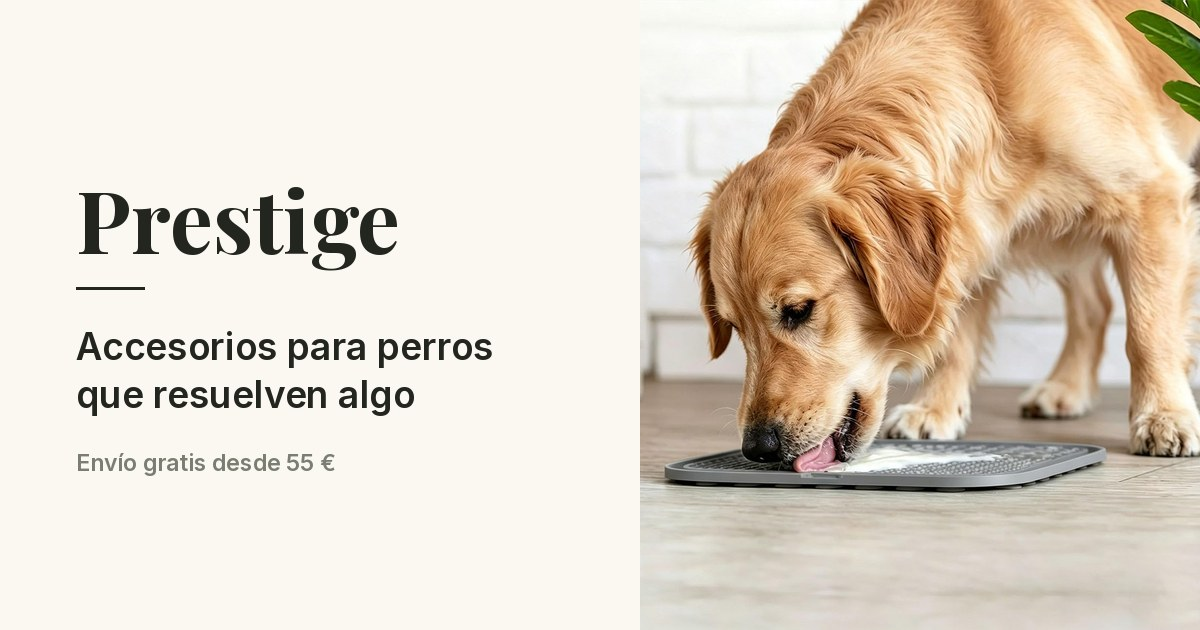
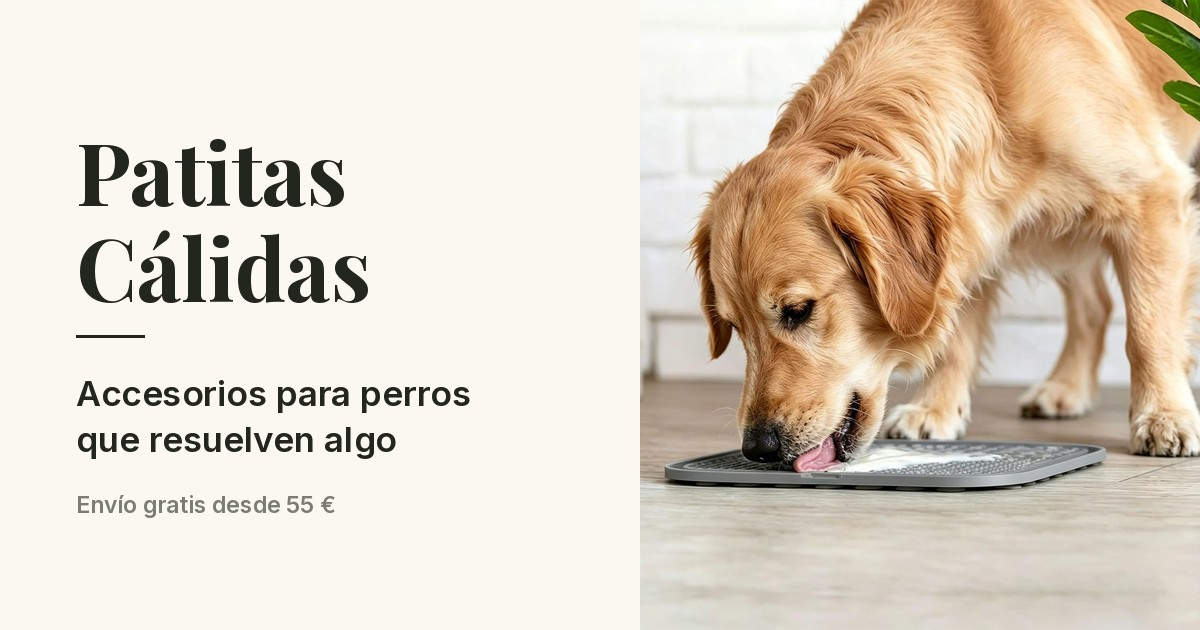
La marca pasa a ser Patitas Calidas
- Los 39 productos llevan ya la marca "Patitas Calidas". Estaba descuadrada:
  20 decian Prestige y 19 decian CJ, el nombre del proveedor, visible para
  el cliente. productVendors devuelve ahora un solo valor.
- Imagen de compartir rehecha con el nombre nuevo, en dos lineas.
- Las paginas no nombraban a Prestige, no habia nada que cambiar ahi.

Segunda revision del dominio: el certificado sigue sin emitirse, mismo
comodin caducado. La verificacion por correo era la del titular del dominio
que exige ICANN, no tiene relacion con el certificado HTTPS.

Quedan dos ajustes que no tienen mutacion de API: el nombre de la tienda y
el titulo de la portada.

Claude-Session: https://claude.ai/code/session_01CFqyQZwoYDpx6wpYr3FX3j

diff --git a/research/dominio-2026-09-07.md b/research/dominio-2026-09-07.md
@@ -97,3 +97,51 @@ de las paginas** en el dominio nuevo, porque no se debe saltar la validacion
 de TLS ni siquiera para comprobar. El verificador `scripts/verificar-tienda.py`
 apunta todavia al dominio `.myshopify.com`; hay que cambiarle la direccion
 cuando el certificado este listo.
+
+---
+
+## Segunda revision (misma tarde, tras verificar el correo)
+
+**Sin cambios.** Seis comprobaciones mas, en `patitascalidas.com` y en
+`www.patitascalidas.com`: sigue el mismo comodin `*.myshopify.com` caducado
+el 15 de noviembre de 2025. Las paginas siguen sin cargar.
+
+La verificacion por correo que se hizo es la del **titular del dominio**, que
+exige ICANN para que no te suspendan el registro. Es necesaria, pero **no
+tiene relacion con el certificado HTTPS**, que lo emite Shopify por su cuenta
+una vez comprueba el DNS. Son dos cosas distintas y se confunden a menudo.
+
+Sigue pendiente lo mismo: esperar (hasta 48 h), y si no, quitar y volver a
+anadir el dominio en Shopify.
+
+## Decidido: la marca es Patitas Calidas
+
+### Hecho
+
+- **Los 39 productos** llevan ahora la marca `Patitas Calidas`.
+  Antes estaba descuadrado: 20 decian `Prestige` y **19 decian `CJ`**, el
+  nombre del proveedor, que no deberia ver un cliente ni aparecer en los
+  datos estructurados. Comprobado con `productVendors`: ahora devuelve **un
+  solo valor**.
+- **Imagen de compartir rehecha** con el nombre nuevo, en dos lineas, que a
+  ese cuerpo se lee mejor que en una.
+- Revisadas las paginas (Quienes somos, Preguntas frecuentes, Envios): **no
+  nombran a Prestige en ningun sitio**, asi que no habia nada que cambiar.
+
+### Lo que solo puedes cambiar tu
+
+No hay mutacion de API para el nombre de la tienda ni para el titulo de la
+portada: son ajustes de administracion.
+
+1. **Configuracion > Datos de la tienda > Nombre**: `Prestige` ->
+   `Patitas Calidas`.
+   Con eso cambia de golpe el sufijo de **todos** los titulos de pagina
+   (" - Prestige" -> " - Patitas Calidas") y el `og:site_name`.
+2. **Tienda online > Preferencias > Titulo y descripcion**: el titulo de la
+   portada pone hoy `Accesorios para perros que resuelven algo | Prestige`.
+   Cambia el final a `| Patitas Calidas`.
+
+Aviso de longitud: `Accesorios para perros que resuelven algo | Patitas
+Calidas` son 63 caracteres y Google corta sobre los 60. Cabe asi:
+`Accesorios para perros que resuelven algo` (40) y dejar que el tema anade
+el nombre, o `Accesorios para perros | Patitas Calidas` (40).

diff --git a/assets/redes/LEEME.md b/assets/redes/LEEME.md
@@ -31,8 +31,8 @@ de un producto que vendemos, y las fuentes y colores reales del tema:
 Playfair Display, Inter, crema `#FBF7F1` y tinta `#23261F`.
 
 ### 1. `portada-compartir-1-marca.jpg` — recomendada
-Nombre de la tienda, la frase de la portada y el envio gratis sobre el crema
-de la tienda, con la foto a la derecha. Se lee entera a 400 px y dice quien
+El nombre **Patitas Calidas** en dos lineas, la frase de la portada y el
+envio gratis sobre el crema de la tienda, con la foto a la derecha. Se lee entera a 400 px y dice quien
 eres antes de que abran el enlace.
 
 ### 2. `portada-compartir-2-solo-foto.jpg`
